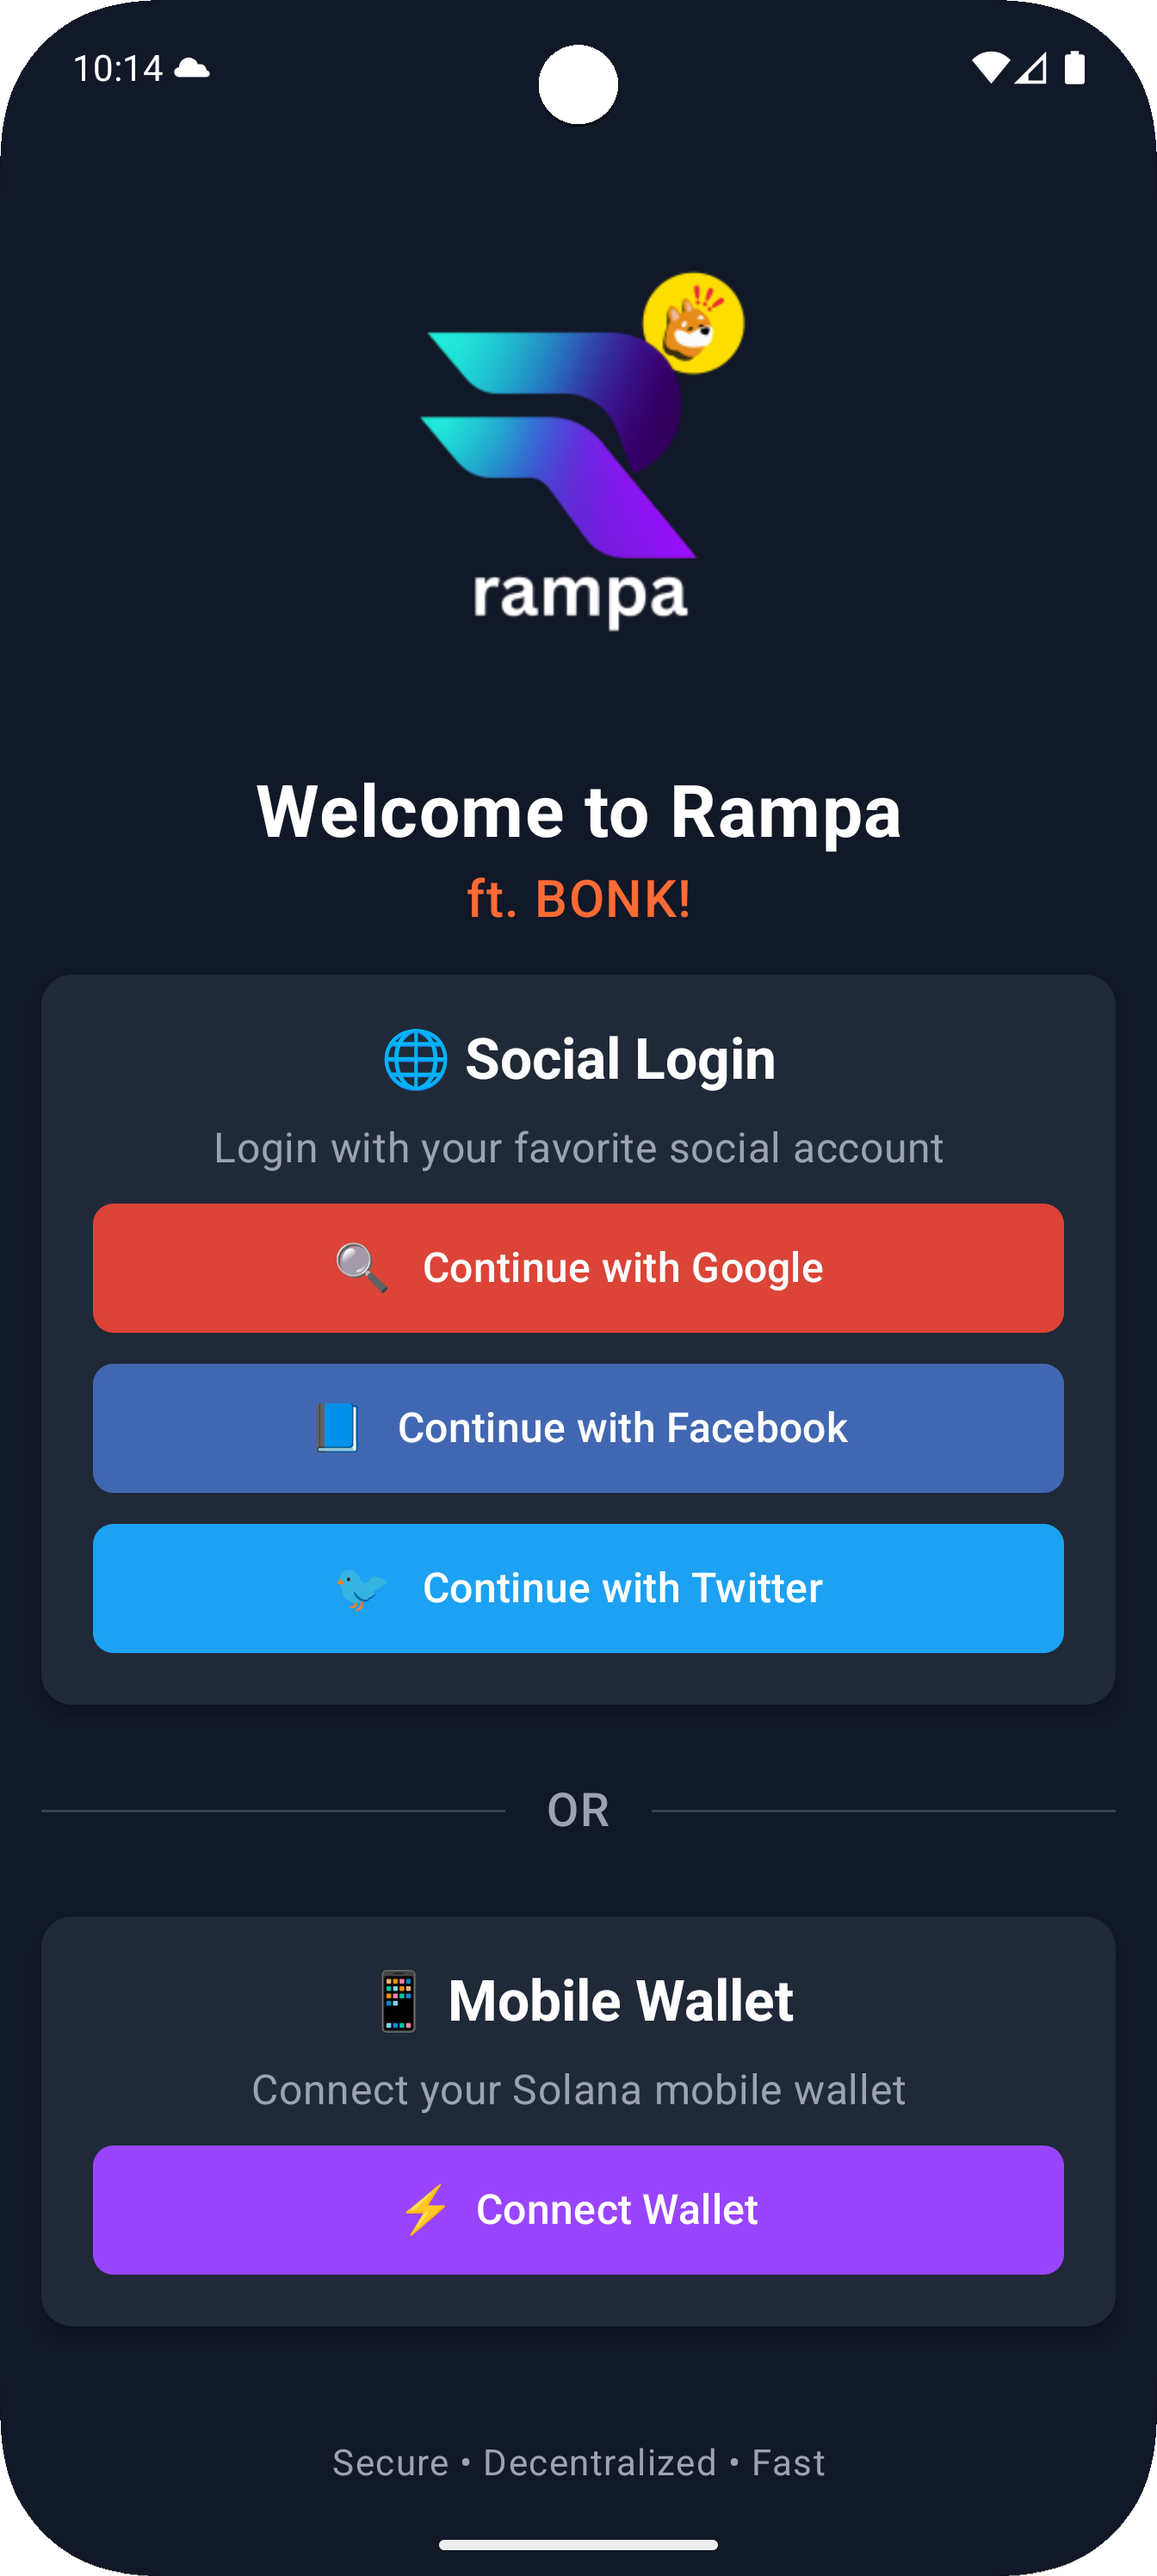
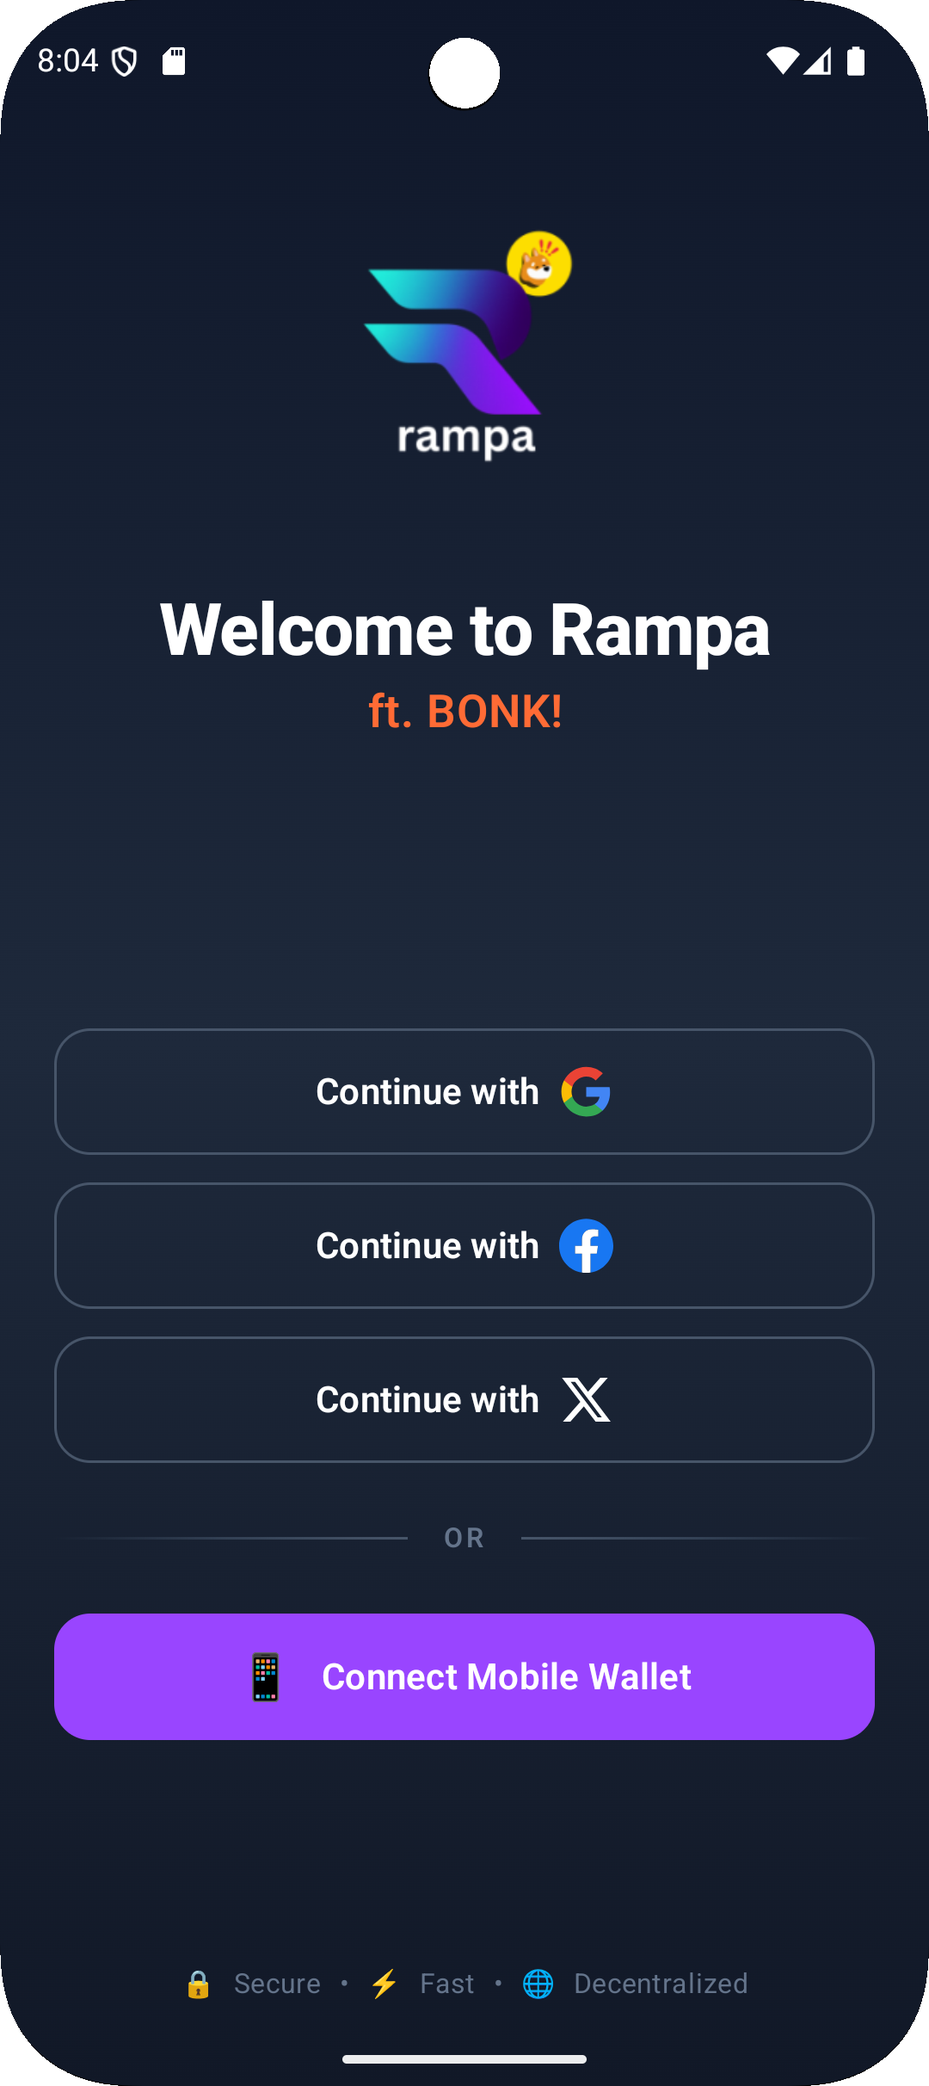
Clean splash and login screen. usdc_logo updated.

diff --git a/app/src/main/java/com/example/rampacashmobile/ui/screens/LoginScreen.kt b/app/src/main/java/com/example/rampacashmobile/ui/screens/LoginScreen.kt
@@ -100,12 +100,12 @@ fun LoginScreen(
                 ) {
                     Box(
                         modifier = Modifier
-                            .size(200.dp) // Increased logo size
+                            .size(300.dp) // Increased logo size
                             .padding(bottom = 24.dp)
                     ) {
                         Image(
-                            painter = painterResource(id = R.mipmap.rampa_bonk),
-                            contentDescription = "Rampa BONK Logo",
+                            painter = painterResource(id = R.mipmap.rampa_trsl_txt_w_bott_foreground),
+                            contentDescription = "Rampa Logo",
                             modifier = Modifier.fillMaxSize()
                         )
                     }
@@ -116,14 +116,6 @@ fun LoginScreen(
                         color = Color.White,
                         textAlign = TextAlign.Center,
                         letterSpacing = (-0.5).sp
-                    )
-                    Text(
-                        text = "ft. BONK!",
-                        fontSize = 20.sp,
-                        fontWeight = FontWeight.SemiBold,
-                        color = Color(0xFFFF6B35), // BONK orange
-                        textAlign = TextAlign.Center,
-                        modifier = Modifier.padding(top = 4.dp)
                     )
                 }
 
